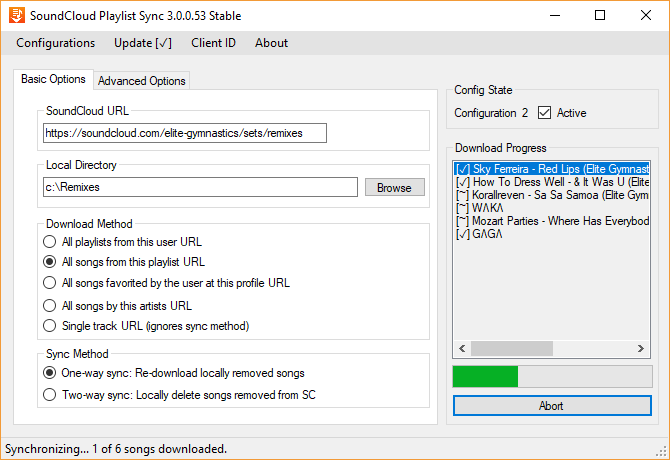
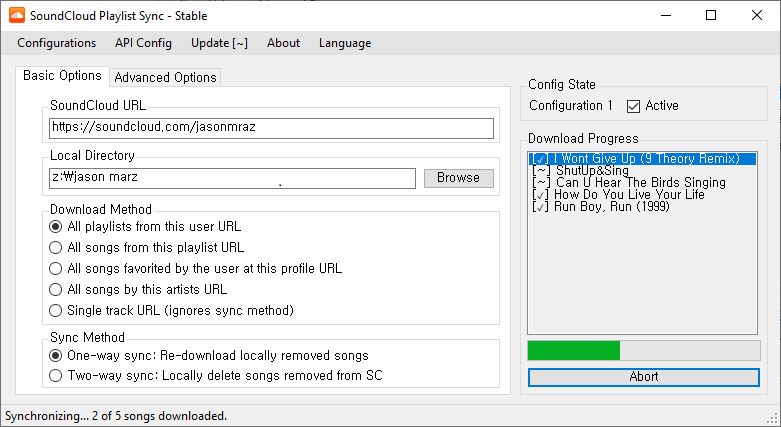
2019-01-22 Update README.md

diff --git a/README.md b/README.md
@@ -1,9 +1,13 @@
 # SoundCloud Playlist Sync
 
+Available language: English(Default), Korean(한국어)
 
 A utility to synchronize local directories with SoundCloud playlists and favorited lists.
 
 ![alt text](https://raw.githubusercontent.com/erwinkramer/SoundCloud-Playlist-Sync/fix/Program%20GUI.PNG)
+
+Korean (한국어)
+![alt text](https://raw.githubusercontent.com/erwinkramer/SoundCloud-Playlist-Sync/fix/Program%20GUI%20(Korean).PNG)
 
 [![Join the chat at https://gitter.im/erwinkramer/SoundCloud-Playlist-Sync](https://badges.gitter.im/erwinkramer/SoundCloud-Playlist-Sync.svg)](https://gitter.im/erwinkramer/SoundCloud-Playlist-Sync?utm_source=badge&utm_medium=badge&utm_campaign=pr-badge&utm_content=badge)
 
